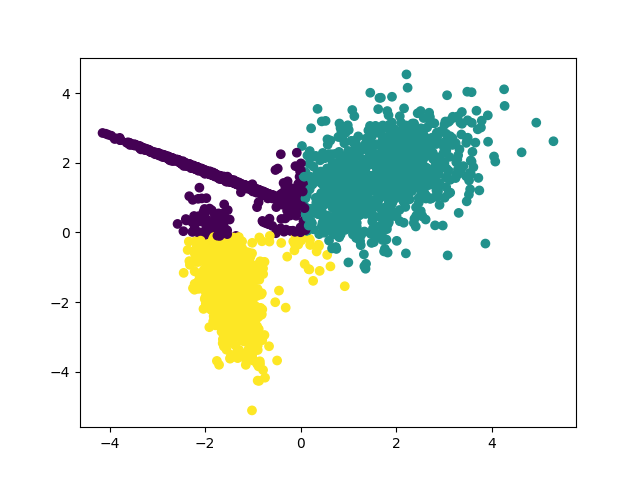
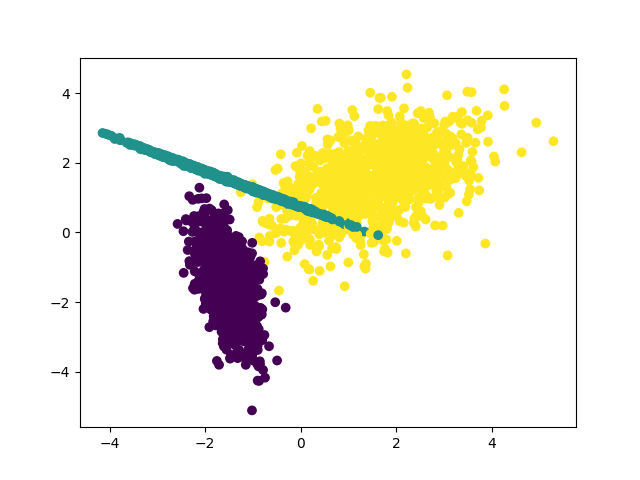
gmm scatter plots and kmeans comparison

diff --git a/run_gmm.py b/run_gmm.py
@@ -4,7 +4,8 @@ from sklearn.mixture import GaussianMixture
 
 import matplotlib.pyplot as pyplot
 
-import
+
+from sklearn.metrics import silhouette_score
 
 data = pandas.read_csv("dataset.csv")
 
@@ -27,18 +28,18 @@ print(data)
 
 pyplot.scatter(data[:,0], data[:,1])
 pyplot.savefig("scatter.png") # So we see that the distribution inside the group is different -> KMeans will not work as well
-
+pyplot.close()
 
 # Using the other model (KMeans), just to further compare:
 
-def run_means(n, data):
+def run_kmeans(n, data):
 	kmeans_machine = KMeans(n_clusters = n) # instead of having this code on the following line, now we have a machine
-	kmean_results = kmeans_machine.fit_predict(data)
+	kmeans_results = kmeans_machine.fit_predict(data)
 	silhouette = 0
 	if n>1 :
 		silhouette = silhouette_score(data, kmeans_machine.labels_, metric = 'euclidean')
-	print(kmean_results)
-	pyplot.scatter(data[:,0], data[:,1], c= kmean_results)
+	print(kmeans_results)
+	pyplot.scatter(data[:,0], data[:,1], c= kmeans_results)
 	pyplot.savefig("scatter_kmeans_"+ str(n) + ".png") # According to centroid
 	pyplot.close()
 	return silhouette
@@ -47,15 +48,34 @@ def run_means(n, data):
 # GAUSSIAN MIXTURE MODEL (similar syntax)
 
 def run_gmm(n, data):
-	gmm_results = GaussianMixture(n_components = 3).fit_predict(data)
-	kmean_results = gmm_machine.fit_predict(data)
-	if n>1:
-		silhouette_score(data, gmm_results, metrics = 'euclidean')
-	pyplot.scatter(data[:,0], data[:,1], c= kmean_results)
-	pyplot.savefig("scatter_gmm_" + str(n) + ".png")
+	gmm_machine = GaussianMixture(n_components = n) # instead of having this code on the following line, now we have a machine
+	gmm_results = gmm_machine.fit_predict(data)
+	silhouette = 0
+	if n>1 :
+		silhouette = silhouette_score(data, gmm_results, metric = 'euclidean')
+	print(gmm_results)
+	pyplot.scatter(data[:,0], data[:,1], c= gmm_results)
+	pyplot.savefig("scatter_gmm_"+ str(n) + ".png") # According to centroid
 	pyplot.close()
 	return silhouette
+
+
+
 # very dense at the center, and distributino is symetric
 # cluster : dense in the center, symetric distribution , even when it is overlapping cluster
 
 
+# kmeans_silhouette = run_kmeans(3, data)
+# gmm_silhouette = run_gmm(3, data)
+
+# print(kmeans_silhouette)
+# print(gmm_results)
+
+# Optimal number of clusters:
+kmeans_silhouette_list = [run_kmeans(i+1, data) for i in range(7)]
+# max_kmeans_silhouette = max(kmeans_silhouette_list)
+# print(kmeans_silhouette_score)
+print(kmeans_silhouette_list)
+
+gmm_silhouette_list = [run_gmm(i+1, data) for i in range(7)]
+print("\nnumber of cluster with max gmm silhouette scores: \n", gmm_silhouette_list.index(max(gmm_silhouette_list))+1)
